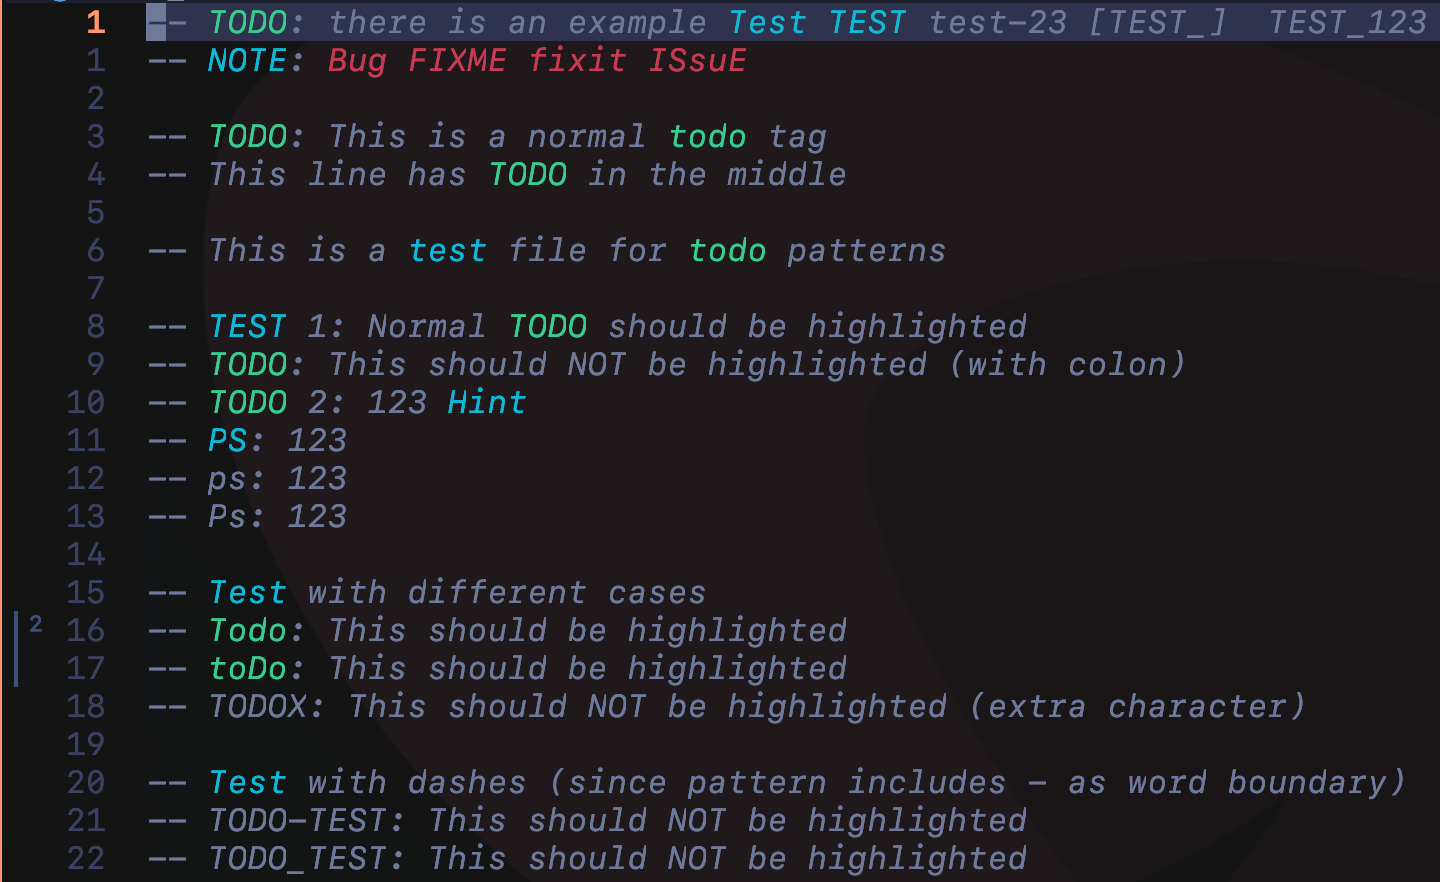
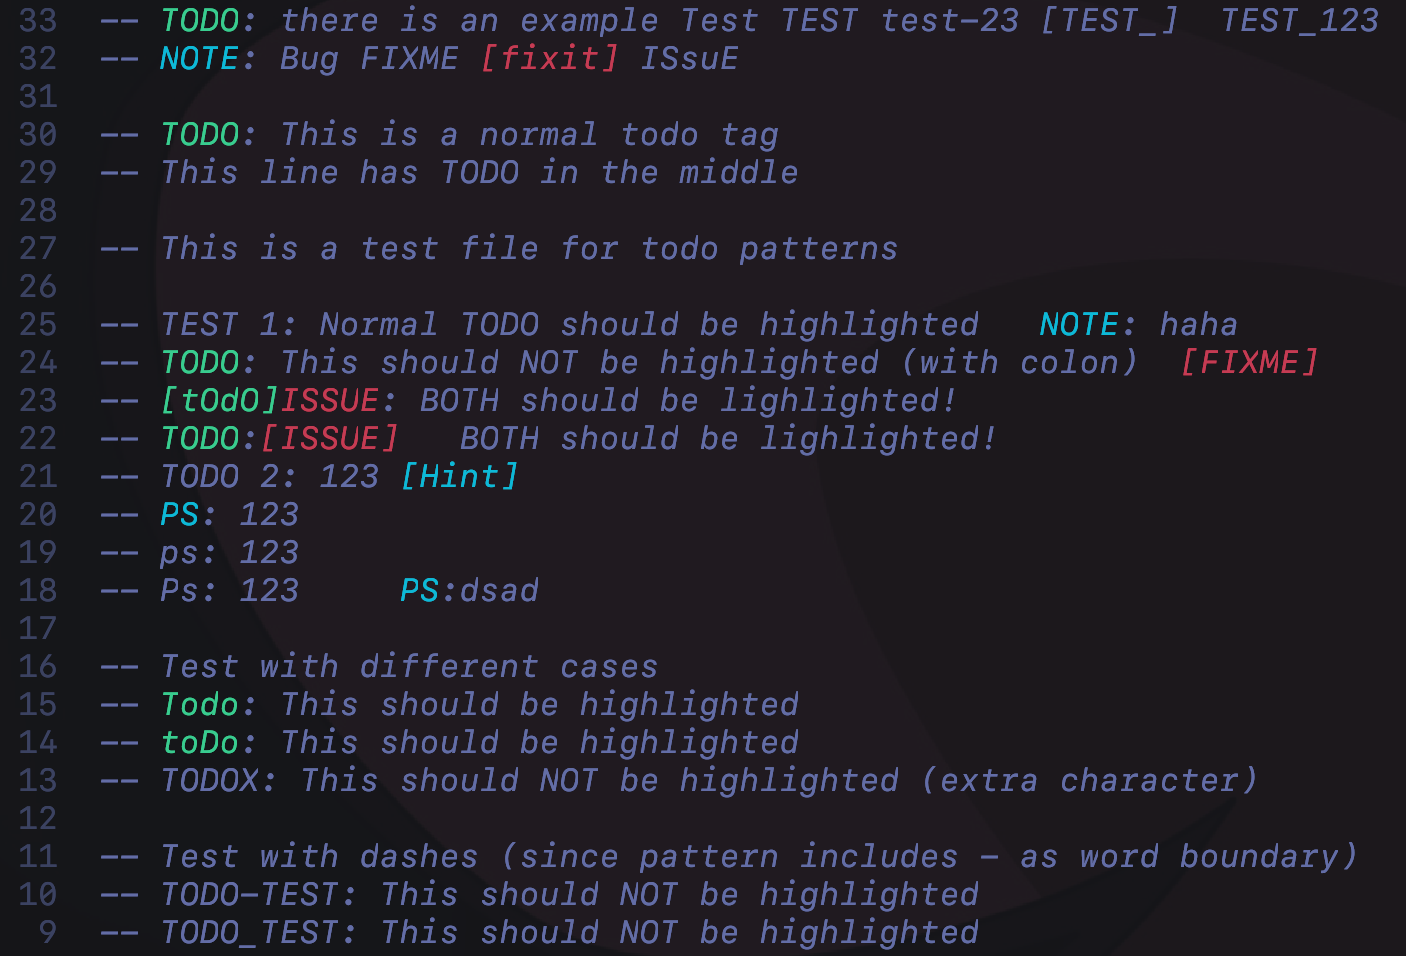
feat(keywords)!: use array config for keywords instead of dict feat(highlight): support partial keyword highlighting with `hl_part` option feat(assets): update showcase images to reflect new patterns and partial highlighting

Changed region(s): [[0.0, 0.0, 1.0, 1.0], [0.8257, 0.3061, 0.9481, 0.398]]

diff --git a/README.md b/README.md
@@ -1,18 +1,14 @@
 # ✅ todotag.nvim
-
 A lightweight and customizable Neovim plugin that highlights todo tags in comments.
 
 ## ✨ Features
-
 - **Customizable Todo Tags**: Define your own todo keywords and highlight groups
-- **Smart Highlighting**: Only highlights tags in comment regions
+- **Smart Highlighting**: Only highlights tags in comment regions (treesitter + syntax fallback)
+- **Partial Highlighting**: Match a broader pattern but only highlight a portion (e.g., match `todo:` but highlight `todo`)
 - **Case Sensitivity**: Control whether tags are case-sensitive
 - **Performance**: Efficiently highlights only visible regions with throttling
-- **Exclusion Rules**: Exclude specific filetypes and buftypes
-- **Priority Control**: Set highlight priority to override other plugins
 
 ## 🎨 Demo
-
 ### Basic Showcase
 ![Basic Showcase](assets/showcase.png)
 
@@ -20,45 +16,33 @@ A lightweight and customizable Neovim plugin that highlights todo tags in commen
 ![With todo-comments.nvim](assets/showcase_with_todocomments.png)
 
 ## 📦 Installation
-
-### Using lazy.nvim
-
 ```lua
+-- lazy.nvim
 {
   "fau818/todotag.nvim",
-  dependencies = "folke/todo-comments.nvim",  -- Optional: enhances TODO management
+  dependencies = "folke/todo-comments.nvim",  -- Optional
   opts = {},
 }
 ```
 
-For a more complete lazy.nvim configuration with custom highlights, see the [Comprehensive Configuration](#comprehensive-configuration) section.
-
 ## 🚀 Usage
-
-### Start/Stop Highlighting
-
-The plugin starts automatically when Neovim launches, but you can control it with these commands:
+The plugin starts automatically after `setup()`. You can also control it manually:
 
 ```vim
 :TodotagStart  " Start highlighting todo tags
 :TodotagStop   " Stop highlighting todo tags
 ```
 
-### Default Behavior
-
-By default, the plugin highlights the keyword `TODO` in comments with the `Todo` highlight group.
-
 ## ⚙ Configuration
-
-You can customize the plugin's behavior by passing a configuration table to `setup()`:
-
+Full configuration example with all options:
 ```lua
 require("todotag").setup({
   -- Keywords recognized as todo tags
   keywords = {
-    todo = { hl_group = "Todo", case_sensitive = false },
-    fix  = { hl_group = "Error", case_sensitive = true },
-    note = { hl_group = "DiagnosticInfo", case_sensitive = false },
+    { pattern = "todo:", hl_part = "todo", hl_group = "Todo", case_sensitive = false },
+    { pattern = "[todo]", hl_part = "todo", hl_group = "Todo", case_sensitive = false },
+    { pattern = "fix",   hl_group = "Error", case_sensitive = true },
+    { pattern = "note:", hl_part = "note", hl_group = "DiagnosticInfo", case_sensitive = false },
   },
 
   -- Highlight priority (default: 501, covers todo-comments.nvim)
@@ -78,90 +62,25 @@ require("todotag").setup({
 })
 ```
 
-### Custom Highlight Groups
+### Keyword Options
+| Field | Type | Description |
+|---|---|---|
+| `pattern` | `string` | **Required.** The string to match in comments. |
+| `hl_group` | `string` | **Required.** Highlight group to apply. |
+| `hl_part` | `string?` | Substring of `pattern` to highlight. If omitted, the entire match is highlighted. |
+| `case_sensitive` | `boolean?` | Default `false`. When `false`, matches regardless of case. |
 
-You can define your own highlight groups using Neovim's Lua API or Vimscript:
-
-#### Using Lua API
+## 📖 Example Configuration
 ```lua
--- Define highlight groups with Lua API
-vim.api.nvim_set_hl(0, "MyTodoTag", { fg = "#ffffff", bg = "#ff0000", bold = true })
-vim.api.nvim_set_hl(0, "MyNoteTag", { fg = "#1a1a2e", bg = "#a6c1ee", italic = true })
-```
-
-#### Using Vimscript
-```vim
-" Define highlight groups with Vimscript
-hi MyTodoTag guifg=#ffffff guibg=#ff0000
-hi MyNoteTag guifg=#1a1a2e guibg=#a6c1ee
-```
-
-Then use your custom groups in the plugin configuration:
-```lua
-require("todotag").setup({
-  keywords = {
-    todo = { hl_group = "MyTodoTag", case_sensitive = false },
-    note = { hl_group = "MyNoteTag", case_sensitive = false },
-  },
-})
-```
-
-## 🔍 Key Features Explained
-
-### Case Sensitivity
-
-When `case_sensitive` is `false`, the plugin will match tags regardless of case:
-- `TODO`, `Todo`, `todo`, and `tOdO` will all be matched
-
-When `case_sensitive` is `true`, only the exact case will be matched.
-
-### Smart Comment Detection
-
-The plugin detects if a tag is inside a comment using two methods:
-1. Treesitter (if available) for accurate comment detection
-2. Syntax highlighting fallback for legacy support
-
-### Performance Optimizations
-
-- **Throttling**: Updates are throttled to prevent performance issues
-- **Visible Area Only**: Only highlights lines in the visible window
-- **Buffer Attach**: Attaches only to valid buffers (excludes floats, help, etc.)
-- **State Management**: Tracks valid lines to avoid unnecessary re-highlighting
-
-## 📖 Examples
-
-### Basic Custom Configuration
-
-```lua
--- Highlight bug tags with error group (case-insensitive)
-require("todotag").setup({
-  keywords = {
-    bug = { hl_group = "Error", case_sensitive = false },
-  },
-})
-```
-
-### Comprehensive Configuration
-
-Here's a focused example using lazy.nvim:
-
-```lua
--- In your lazy.nvim plugin configuration
 return {
   "fau818/todotag.nvim",
-  dependencies = "folke/todo-comments.nvim",  -- Optional dependency
 
   opts = {
     keywords = {
-      -- Primary TODO tag (green)
-      todo = { hl_group = "TodoTag", case_sensitive = false },
-      -- Information tag (blue)
-      note = { hl_group = "InfoTag", case_sensitive = false },
-      -- Fix tag (red)
-      fix  = { hl_group = "FixTag", case_sensitive = false },
+      { pattern = "todo:", hl_part = "todo", hl_group = "TodoTag", case_sensitive = false },
+      { pattern = "note:", hl_part = "note", hl_group = "InfoTag", case_sensitive = false },
+      { pattern = "fix", hl_group = "FixTag", case_sensitive = false },
     },
-    only_visible = true,  -- Highlight only visible lines (performance)
-    throttle = 250,       -- Throttle updates
   },
 
   config = function(_, opts)
@@ -176,33 +95,23 @@ return {
 ```
 
 ## ❗ Troubleshooting
-
 ### Tags Are Not Highlighted
-
 1. Ensure the tag is inside a comment
 2. Check that the filetype is not excluded
-3. Verify the tag is not in a listed exclude buftype
+3. Verify the buftype is not excluded
 4. Make sure the plugin is started with `:TodotagStart`
 
 ### Performance Issues
-
-- Increase the `throttle` value to reduce the frequency of updates
-- Set `only_visible` to `true` to only highlight visible lines
-- Reduce the number of keywords if you have many custom tags
-
-## 🤝 Contributing
-
-Contributions are welcome! Please feel free to submit issues and pull requests.
+- Increase `throttle` to reduce update frequency
+- Set `only_visible = true` to only highlight visible lines
+- Reduce the number of keywords
 
 ## 📄 License
-
-MIT License - see LICENSE file for details
+MIT License - see [LICENSE](LICENSE) file for details
 
 ## 💬 Support
-
 If you have any questions or issues, please open an issue on the GitHub repository: [issues](https://github.com/fau818/todotag.nvim/issues)
 
 ## 🙏 Acknowledgments
-
 - Inspired by various todo highlighting plugins
 - Uses ideas from [folke/todo-comments.nvim](https://github.com/folke/todo-comments.nvim)

diff --git a/.github/copilot-instructions.md b/.github/copilot-instructions.md
@@ -1,0 +1,23 @@
+# Copilot Instructions for todotag.nvim
+
+## About
+
+todotag.nvim is a Neovim plugin (Lua) that highlights todo-tag keywords inside comment regions. It uses treesitter (with syntax highlighting fallback) for comment detection and integrates with [todo-comments.nvim](https://github.com/folke/todo-comments.nvim) by avoiding overlap with its `TodoBg*` extmarks.
+
+## Architecture
+
+All plugin code lives in `lua/todotag/`:
+
+- **`init.lua`** — Entry point. Exposes `setup()`, `start()`, `stop()`, `attach()` and registers `:TodotagStart`/`:TodotagStop` user commands.
+- **`config.lua`** — Holds `DEFAULTS` and merges user config via `vim.tbl_deep_extend`. Calling `setup()` stores the merged config in `M.config` and schedules `highlight.start()`.
+- **`highlight.lua`** — Core logic: buffer attach/detach, per-buffer state tracking (valid line map), pattern matching, throttled updates via `vim.uv` timer, and extmark management under the `todotag.nvim` namespace.
+- **`_meta.lua`** — LuaCATS type definitions only (no runtime code).
+
+## Key Conventions
+
+- **Module pattern**: Every file returns a local table `M` with all public functions/state as fields.
+- **Type annotations**: Use LuaCATS annotations (`---@class`, `---@field`, `---@param`, `---@return`, `---@type`). Type-only definitions go in `_meta.lua`.
+- **Line indexing**: The plugin's public/internal API uses **1-indexed** line numbers. Convert to 0-indexed only at the Neovim API boundary (`nvim_buf_get_lines`, `nvim_buf_set_extmark`, etc.). Comments in the code mark which indexing is used.
+- **Keywords config**: `keywords` is an **array** of keyword option tables (not a dict). Each entry has a required `pattern` field and optional `hl_part`, `hl_group`, `case_sensitive`.
+- **Word boundary matching**: Frontier patterns (`%f`) are applied conditionally — only at pattern edges where the character is a word character (`%w`, `_`, `-`).
+- **Partial highlighting**: Keywords support `pattern` (full match string) and `hl_part` (substring to highlight). If `hl_part` is omitted, the entire match is highlighted.
